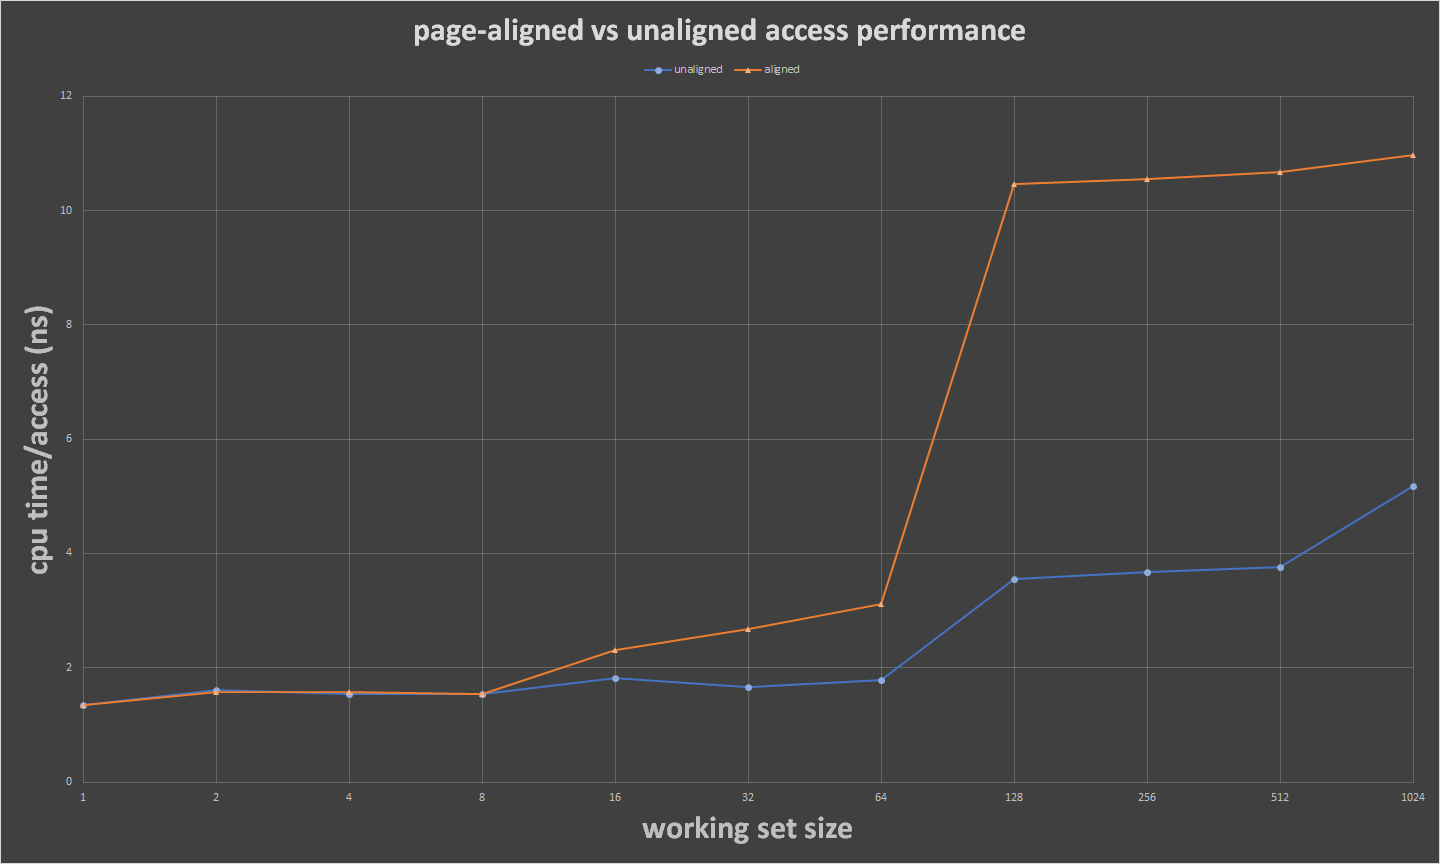
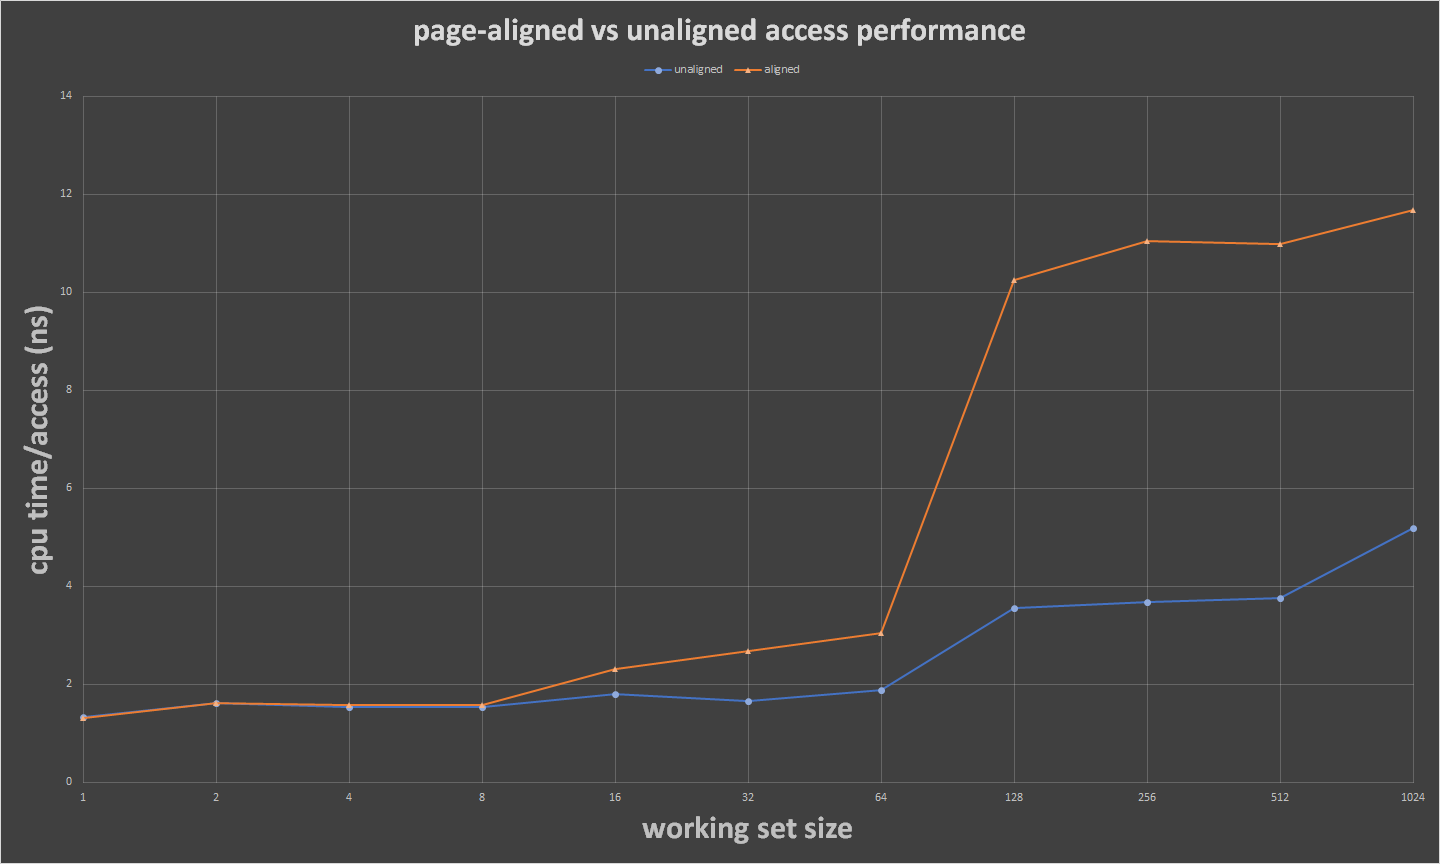
extend cache conflict benchmark to exhaust l3 cache

diff --git a/lecture_01/memory.cpp b/lecture_01/memory.cpp
@@ -203,7 +203,7 @@ void BM_cache_conflict( benchmark::State& state ) {
 
 static void CacheConflictArgs( benchmark::internal::Benchmark* b ) {
     for ( int j : {1, 0} ) {  // aligned / unaligned
-        for ( int i = 0; i <= 10; ++i ) {
+        for ( int i = 0; i <= 13; ++i ) {
             b->Args( { i, j } );
         }
     }
